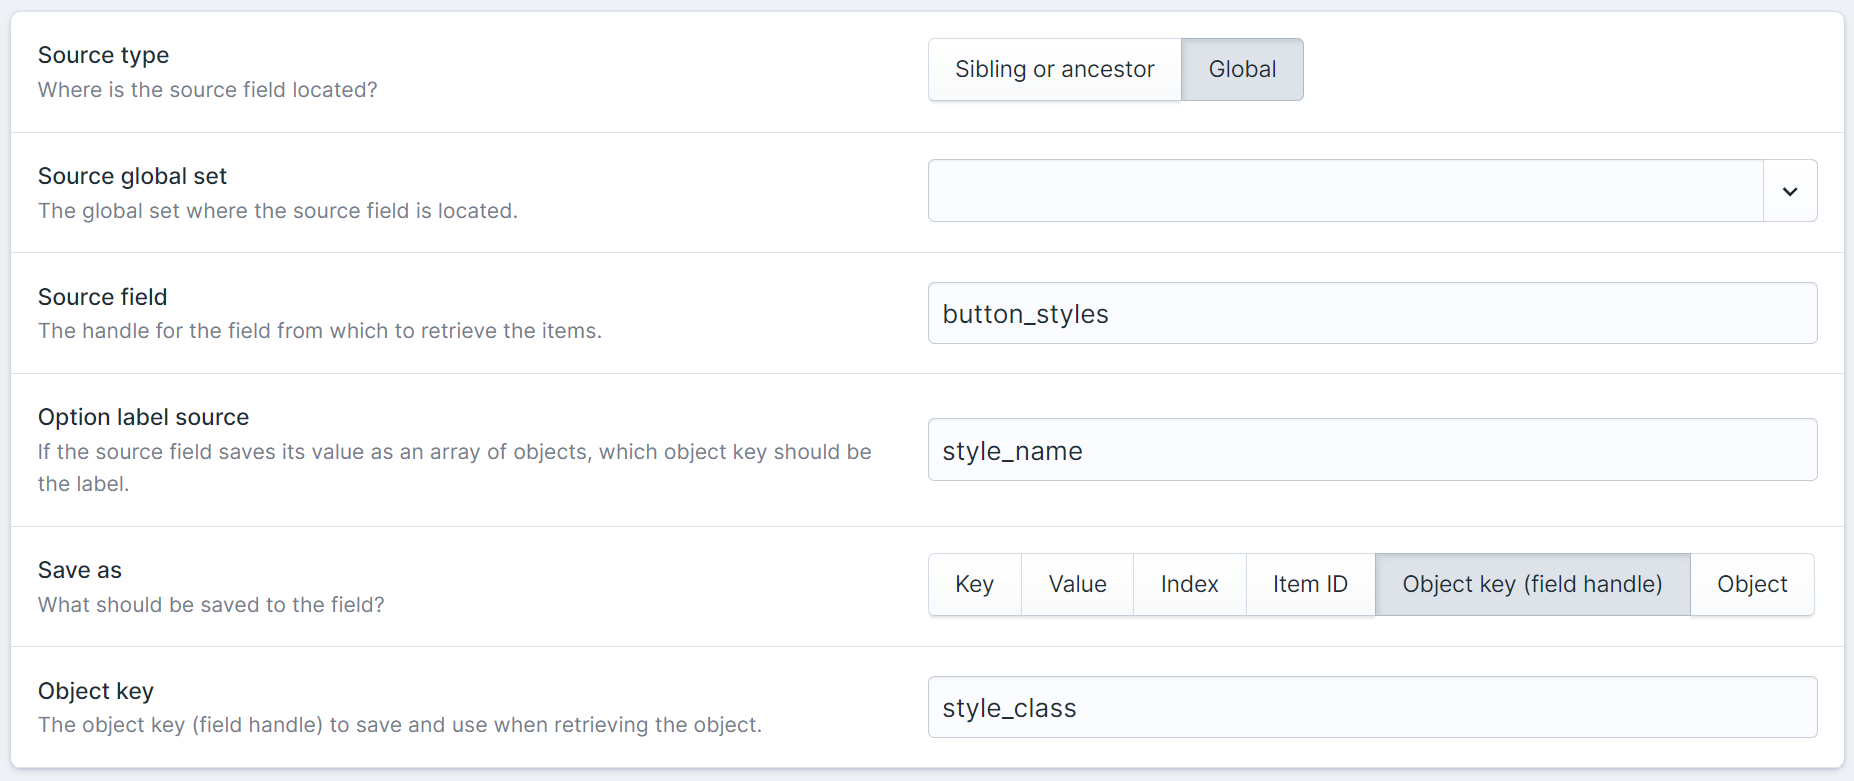
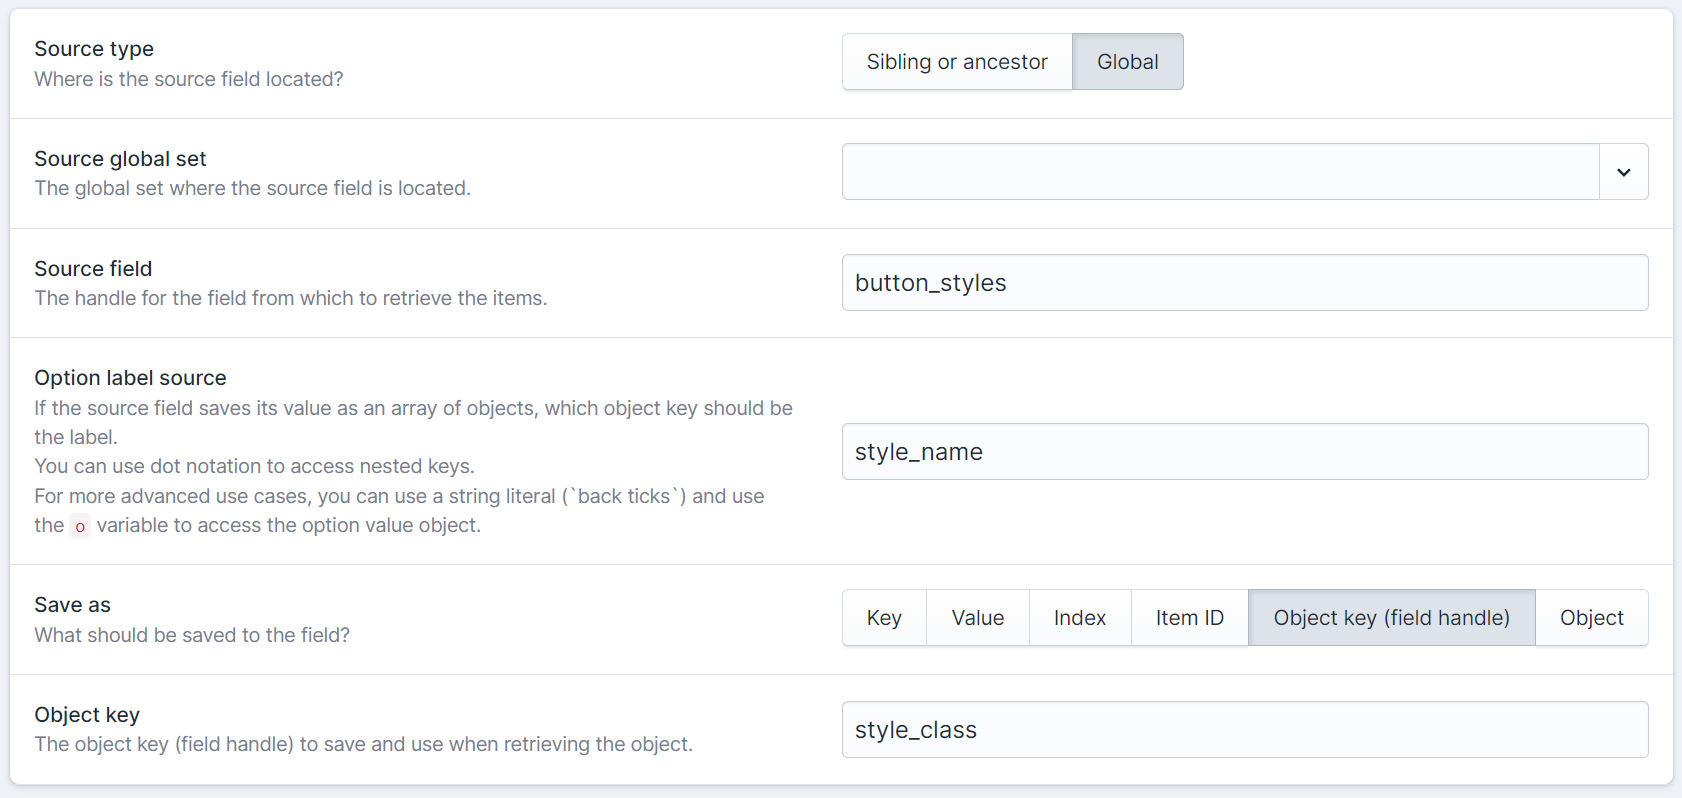
update readme

diff --git a/README.md b/README.md
@@ -16,6 +16,7 @@ composer require eminos/statamic-field-item-relationship
 
 - The source field could be a sibling or ancestor field, or come from a Global set.
 - Set which key/field should be used as the select option label.
+- Use string literal for advanced option label configuration (see [screenshot #4](#screenshot-4))
 - Choose what you want to save as the selected item.
   - Key/Index
   - Specified object key
@@ -51,7 +52,17 @@ Or by specifying the target field in the tag like this:
 
 Even nested fields work, like this:
 ```html
-{{ fir:field_item_relationship_field:some_field:child_field }}
+{{ fir:field_item_relationship_field:some_field.child_field }}
+```
+
+You can also get Global fields:
+```
+{{ fir:global_set:field_item_relationship_field:nested.target.path }}
+```
+
+An other way is to use the field and path parameters:
+```
+{{ fir field="global_set:field_item_relationship_field" path="some_field.child_field" }}
 ```
 
 ## Screenshots
@@ -64,6 +75,11 @@ A real life example with the source field being in a Global set.
 
 The field configuration options.
 ![Screenshot of the field configuration](docs/screenshot3.png)
+
+<div id="screenshot-4"></div>
+
+Advanced option label configuration.
+![Screenshot of field item relationship fields with advanced option label configurations](docs/screenshot4.png)
 
 ## Possible improvements
 
